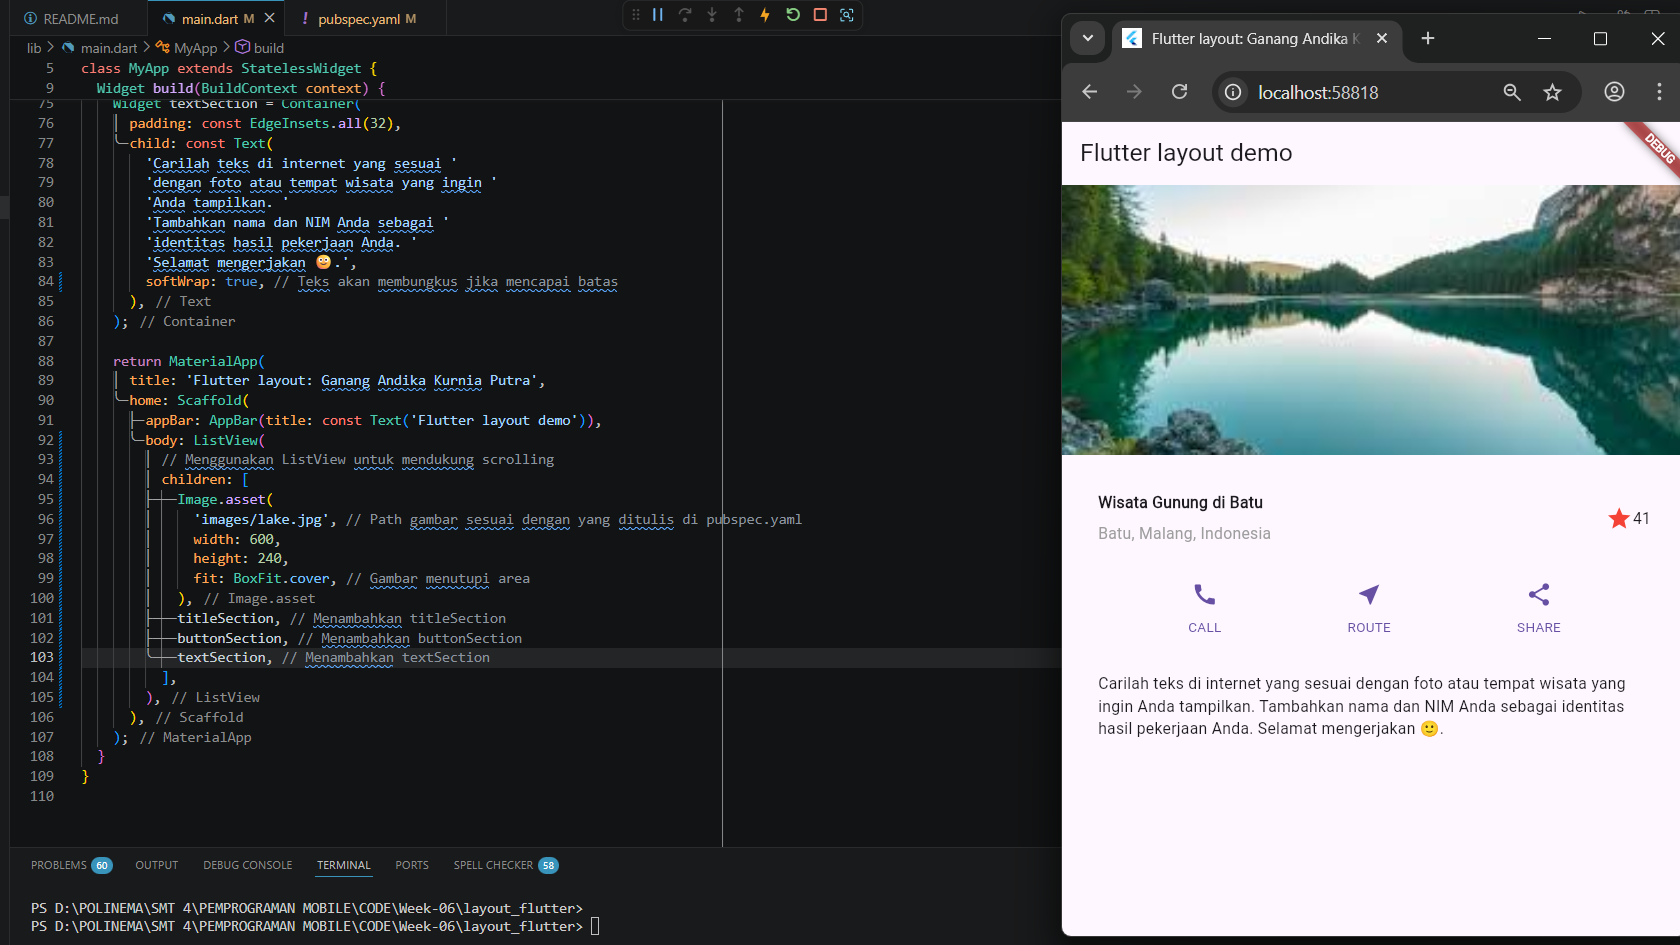
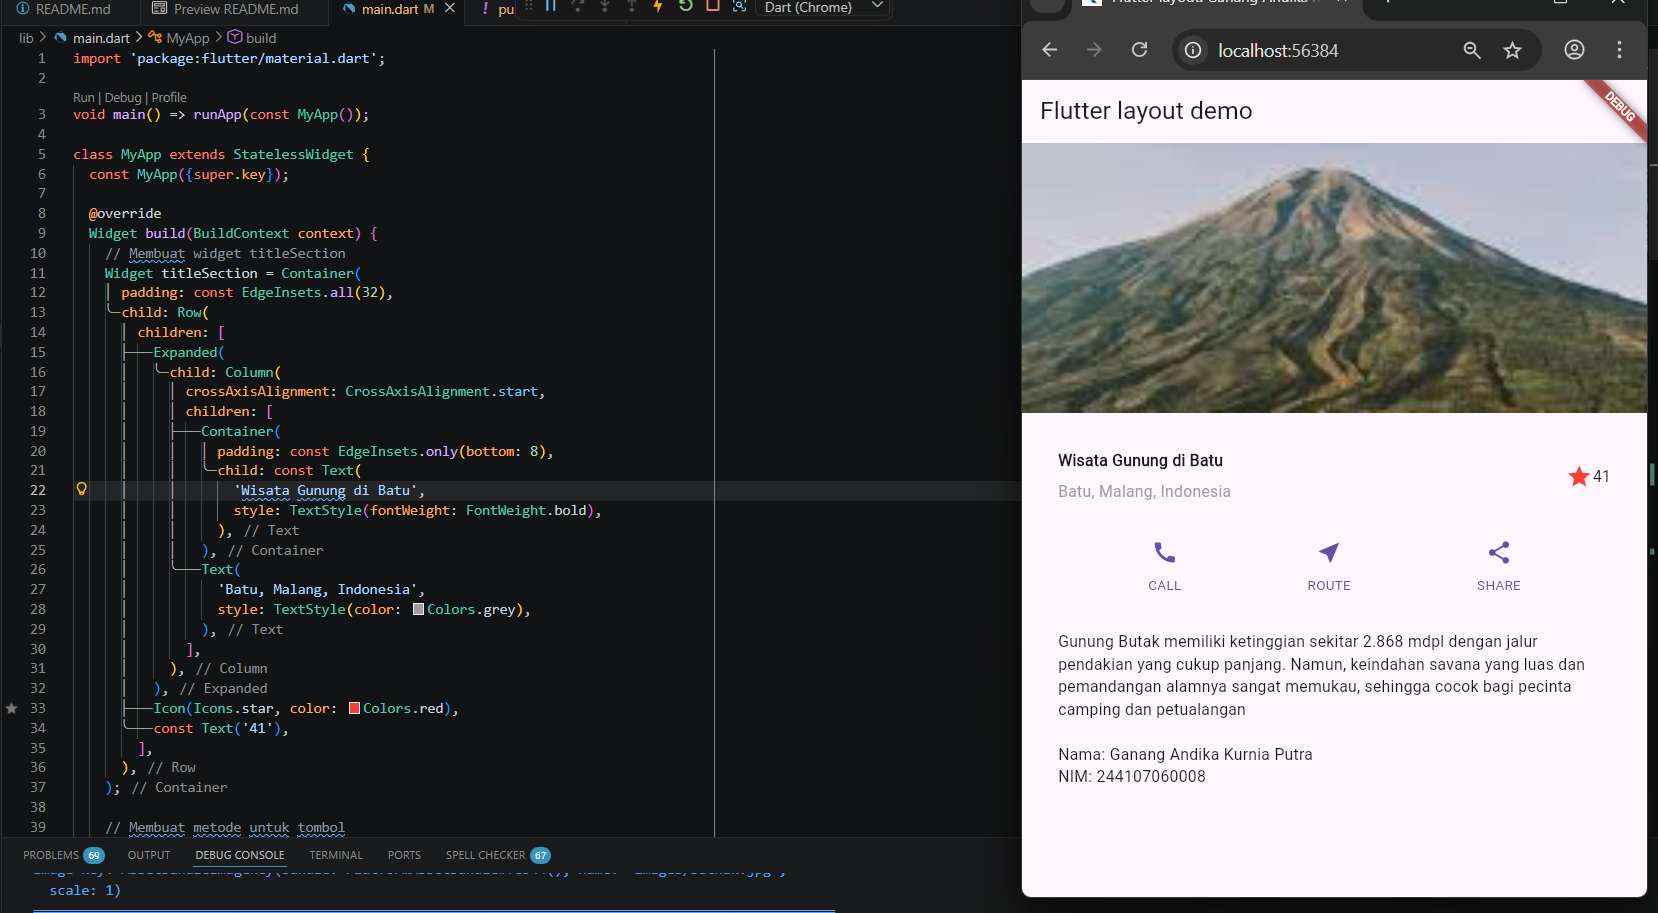
image section

Changed region(s): [[0.6152, 0.0, 1.0, 1.0], [0.0, 0.0, 0.4922, 1.0], [0.3691, 0.0, 0.5229, 0.0307]]

diff --git a/lib/main.dart b/lib/main.dart
@@ -75,12 +75,10 @@ class MyApp extends StatelessWidget {
     Widget textSection = Container(
       padding: const EdgeInsets.all(32),
       child: const Text(
-        'Carilah teks di internet yang sesuai '
-        'dengan foto atau tempat wisata yang ingin '
-        'Anda tampilkan. '
-        'Tambahkan nama dan NIM Anda sebagai '
-        'identitas hasil pekerjaan Anda. '
-        'Selamat mengerjakan 🙂.',
+        'Gunung Butak memiliki ketinggian sekitar 2.868 mdpl dengan jalur pendakian yang cukup panjang. '
+        'Namun, keindahan savana yang luas dan pemandangan alamnya sangat memukau, '
+        'sehingga cocok bagi pecinta camping dan petualangan'
+        '\n\nNama: Ganang Andika Kurnia Putra \nNIM: 244107060008',
         softWrap: true, // Teks akan membungkus jika mencapai batas
       ),
     );
@@ -93,7 +91,7 @@ class MyApp extends StatelessWidget {
           // Menggunakan ListView untuk mendukung scrolling
           children: [
             Image.asset(
-              'images/lake.jpg', // Path gambar sesuai dengan yang ditulis di pubspec.yaml
+              'images/buthak.jpg', // Path gambar sesuai dengan yang ditulis di pubspec.yaml
               width: 600,
               height: 240,
               fit: BoxFit.cover, // Gambar menutupi area
